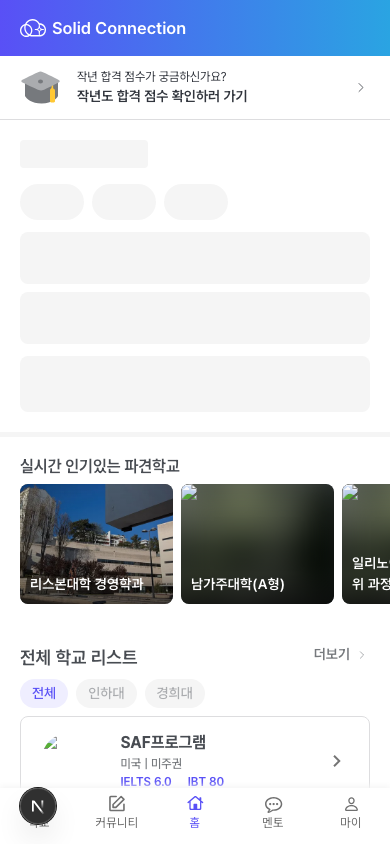
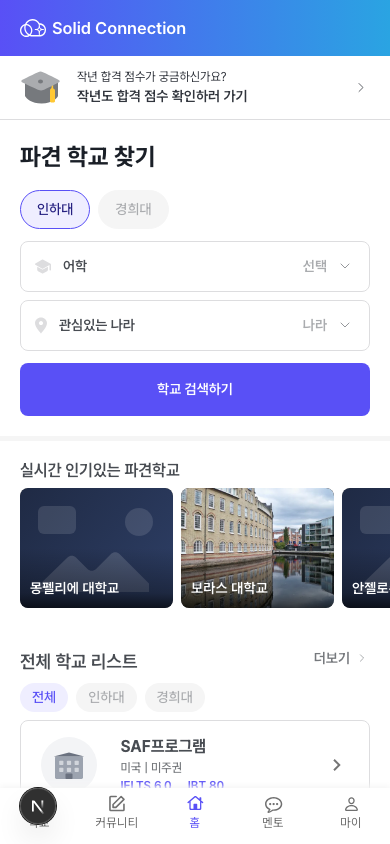
💄 실시간 인기 파견학교 카드 그라데이션 하단 영역만 적용 (h-1/2)

diff --git a/apps/web/src/app/(home)/_ui/PopularUniversitySection/_ui/PopularUniversityCard.tsx b/apps/web/src/app/(home)/_ui/PopularUniversitySection/_ui/PopularUniversityCard.tsx
@@ -56,7 +56,7 @@ const PopularUniversityCard = ({
           />
           {/* gradient overlay - Figma 노드 4265:39770 기반 */}
           <div
-            className="absolute bottom-0 inset-x-0 h-full rounded-b-lg"
+            className="absolute bottom-0 inset-x-0 h-1/2 rounded-b-lg"
             style={{
               background:
                 "linear-gradient(180deg, rgba(255, 255, 255, 0.00) 0%, rgba(0, 0, 0, 0.35) 75%, rgba(0, 0, 0, 0.70) 100%)",